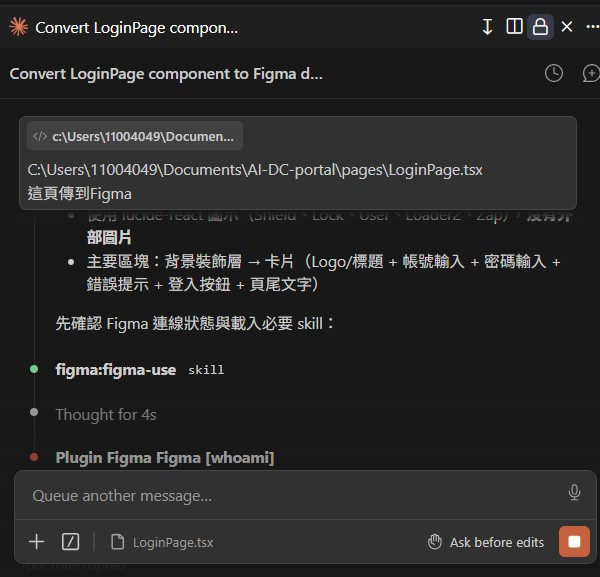
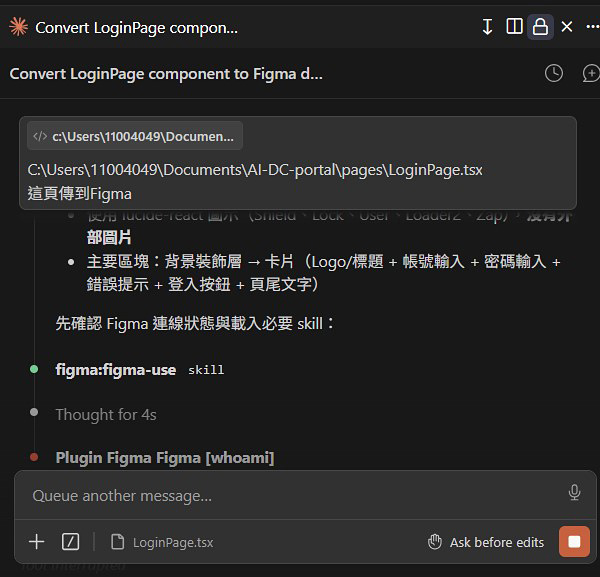
feat(part3): add Skill.md community examples slide + shrink portrait lightbox images
- 新增 Step 3「現成 Skill 直接抓來用」頁：frontend-design (Anthropic 官方) + grill-me (社群)
- MdWindow 支援可選 style prop，兩張卡 flex stretch 等高
- 範例 03 的 portrait 截圖 (chat 面板、login 頁) 在 lightbox 縮小顯示並對齊高度

diff --git a/slides-part3.jsx b/slides-part3.jsx
@@ -76,7 +76,7 @@ const KICKER_STEP2 = '情境二：Design from Code．Step 2｜重構設計規範
 const FIGMA_GALLERY = [
   { src: imgFig01,  stepN: '①', stepLabel: '確認 Figma MCP 連線',          subLabel: 'MCP 連線確認 1/2',     slideLabel: '範例 03｜Figma MCP 開場 + 確認連線' },
   { src: imgFig02,  stepN: '①', stepLabel: '確認 Figma MCP 連線',          subLabel: 'MCP 連線確認 2/2',     slideLabel: '範例 03｜Figma MCP 開場 + 確認連線' },
-  { src: imgFig03,  stepN: '②', stepLabel: '把畫面傳到 Figma',              subLabel: 'a. 下 prompt：「這頁傳到 Figma」', slideLabel: '範例 03｜把畫面傳到 Figma' },
+  { src: imgFig03,  stepN: '②', stepLabel: '把畫面傳到 Figma',              subLabel: 'a. 下 prompt：「這頁<檔案路徑>傳到 Figma」．「瀏覽器畫面的這頁傳到 Figma」．「Login 頁傳到 Figma」', slideLabel: '範例 03｜把畫面傳到 Figma' },
   { src: imgFig04,  stepN: '②', stepLabel: '把畫面傳到 Figma',              subLabel: 'b. 選擇 Figma 目標檔案 1/2',      slideLabel: '範例 03｜把畫面傳到 Figma' },
   { src: imgFig05,  stepN: '②', stepLabel: '把畫面傳到 Figma',              subLabel: 'b. 選擇 Figma 目標檔案 2/2',      slideLabel: '範例 03｜把畫面傳到 Figma' },
   { src: imgFig06,  stepN: '②', stepLabel: '把畫面傳到 Figma',              subLabel: 'c. 選取傳送範圍 1/2',             slideLabel: '範例 03｜把畫面傳到 Figma' },
@@ -132,17 +132,27 @@ function gotoSlideByLabel(labelSuffix) {
  * 取較 portrait 的比例反算可用區域內的共同寬度。 */
 const STEP1_PAIR = [imgFig01, imgFig02]
 
+/* Portrait 比例過高的圖（chat 面板、login 頁）撐滿視窗會壓到上下說明文字，
+ * 單獨縮小顯示，不需要跟其他 landscape 圖共用同高。
+ * SHRINK_PAIR 內兩張會 preload natural size 後 lock 到「較矮那張」的高度，
+ * 確保兩張展開等高（對齊 aspect ratio 較寬的那張）。 */
+const SHRINK_IMAGES = new Set([imgFig03, imgEx03_5])
+const SHRINK_PAIR = [imgFig03, imgEx03_5]
+const SHRINK_MAX_W_RATIO = 0.70
+const SHRINK_MAX_H_RATIO = 0.70
+
 function FigmaGalleryModal() {
   const { open, index, close, setIndex } = useFigmaGallery()
   const current = FIGMA_GALLERY[index]
   const atStart = index === 0
   const atEnd = index === FIGMA_GALLERY.length - 1
   const isStep1 = STEP1_PAIR.includes(current.src)
+  const isShrink = SHRINK_IMAGES.has(current.src)
 
   const [naturalSizes, setNaturalSizes] = useState({})
   useEffect(() => {
     let cancelled = false
-    STEP1_PAIR.forEach((src) => {
+    ;[...STEP1_PAIR, ...SHRINK_PAIR].forEach((src) => {
       if (naturalSizes[src]) return
       const img = new window.Image()
       img.onload = () => {
@@ -163,6 +173,21 @@ function FigmaGalleryModal() {
       const availH = window.innerHeight * (1 - 0.23)
       const minRatio = Math.min(s1.w / s1.h, s2.w / s2.h)
       step1Width = Math.min(availW, availH * minRatio)
+    }
+  }
+
+  /* SHRINK_PAIR 共同高度：兩張展開都鎖到「較矮那張」的渲染高度。
+   * 對每張算 min(maxH, maxW / aspect)，取兩者最小 → 確保兩張等高。 */
+  let shrinkHeight = null
+  if (isShrink && typeof window !== 'undefined') {
+    const sa = naturalSizes[SHRINK_PAIR[0]]
+    const sb = naturalSizes[SHRINK_PAIR[1]]
+    if (sa && sb) {
+      const maxW = window.innerWidth * SHRINK_MAX_W_RATIO
+      const maxH = window.innerHeight * SHRINK_MAX_H_RATIO
+      const heightA = Math.min(maxH, maxW / (sa.w / sa.h))
+      const heightB = Math.min(maxH, maxW / (sb.w / sb.h))
+      shrinkHeight = Math.min(heightA, heightB)
     }
   }
 
@@ -199,7 +224,7 @@ function FigmaGalleryModal() {
         background: 'rgba(9, 9, 9, 0.94)',
         zIndex: 99999,
         display: 'flex', alignItems: 'center', justifyContent: 'center',
-        padding: '15vh 8vw 8vh 8vw',
+        padding: '10vh 4vw 6vh 4vw',
         cursor: 'zoom-out',
       }}
     >
@@ -209,7 +234,11 @@ function FigmaGalleryModal() {
         style={{
           ...(step1Width
             ? { width: step1Width, height: 'auto', maxHeight: '100%' }
-            : { maxWidth: '100%', maxHeight: '100%' }),
+            : shrinkHeight
+            ? { width: 'auto', height: shrinkHeight, maxWidth: '100%' }
+            : isShrink
+            ? { width: 'auto', height: 'auto', maxWidth: '70%', maxHeight: '88%' }
+            : { width: '100%', height: '100%' }),
           objectFit: 'contain',
           borderRadius: 8,
           boxShadow: '0 32px 80px rgba(0, 0, 0, 0.7)',
@@ -699,7 +728,7 @@ const PhotoCard = ({
  * Single surface bg (C.surface2) matches slides_archived.jsx convention;
  * everything else (font, sizes, traffic lights, padding, syntax styling)
  * keeps the original code-editor look. */
-const MdWindow = ({ filename, children, fontSize = TYPE_SCALE.small }) => (
+const MdWindow = ({ filename, children, fontSize = TYPE_SCALE.small, style }) => (
   <div style={{
     background: C.surface2,
     border: '1px solid rgba(255,255,255,0.06)',
@@ -707,6 +736,7 @@ const MdWindow = ({ filename, children, fontSize = TYPE_SCALE.small }) => (
     overflow: 'hidden',
     fontFamily: "'Geist Mono', ui-monospace, monospace",
     boxShadow: '0 24px 60px rgba(0, 0, 0, 0.6)',
+    ...style,
   }}>
     <div style={{
       padding: '14px 24px',
@@ -793,8 +823,7 @@ export const Ch3Divider = ({ n, total }) => (
           opacity: 0.92,
           marginTop: 48,
         }}>
-          透過 Claude Code，將 AI 生成的雜亂介面<br/>
-          重構為具一致性的設計系統
+          
         </div>
       </div>
     </div>
@@ -900,7 +929,7 @@ export const ThreeStepFramework = ({ n, total }) => (
     <motion.div variants={FADE_UP}>
       <SlideHead
         kicker={KICKER}
-        title="三步，讓混亂的 Code 重回可控的設計系統"
+        title="三步驟，從 Code 建立 UI 系統"
         sub="理解 → 規範 → 系統化"
       />
     </motion.div>
@@ -1013,7 +1042,7 @@ export const Step1ClaudeMd = ({ n, total }) => (
     <motion.div
       variants={STAGGER_INNER}
       style={{
-        marginTop: 40,
+        marginTop: 20,
         display: 'grid',
         gridTemplateColumns: '1.1fr 1fr',
         gap: 40,
@@ -1092,6 +1121,22 @@ export const Step1ClaudeMd = ({ n, total }) => (
           它會自動讀過整個專案，產出一份 <span style={{ color: C.ink, fontWeight: 500 }}>CLAUDE.md</span>。
         </div>
       </motion.div>
+    </motion.div>
+
+    {/* 全寬腳註 — .md 格式定義 */}
+    <motion.div
+      variants={FADE_UP}
+      style={{
+        marginTop: 36,
+        paddingTop: 16,
+        borderTop: `1px solid ${C.hairlineSoft}`,
+        fontSize: TYPE_SCALE.small,
+        color: C.inkMuted,
+        lineHeight: 1.5,
+      }}
+    >
+      <span style={{ color: C.ink, fontFamily: "'Geist Mono', ui-monospace, monospace" }}>※ .md</span>
+      （Markdown）是一種 AI 容易解析內容結構的純文字文件格式
     </motion.div>
 
     <SlideNumber n={n} total={total} />
@@ -1714,7 +1759,25 @@ export const Example03Transfer = ({ n, total }) => {
         }}
       >
         {[
-          { n: 'a', label: 'a. 下 prompt：「這頁傳到 Figma」', imgs: [imgFig03] },
+          { n: 'a', label: (
+            <>
+              <div>a. 下 prompt：</div>
+              <div style={{ marginTop: 12, display: 'flex', flexDirection: 'column', gap: 8 }}>
+                {[
+                  '「這頁<檔案路徑>傳到 Figma」',
+                  '「瀏覽器畫面的這頁傳到 Figma」',
+                  '「Login 頁傳到 Figma」',
+                ].map((p, i) => (
+                  <div key={i} style={{
+                    padding: '10px 14px',
+                    background: C.canvas,
+                    borderRadius: ROUNDED.sm,
+                    fontSize: TYPE_SCALE.small, color: C.ink, fontWeight: 500,
+                  }}>{p}</div>
+                ))}
+              </div>
+            </>
+          ), imgs: [imgFig03] },
           { n: 'b', label: 'b. 選擇 Figma 目標檔案',           imgs: [imgFig04, imgFig05] },
           { n: 'c', label: 'c. 選取傳送範圍',                  imgs: [imgFig06, imgFig07] },
         ].map((step, i) => (
@@ -2019,7 +2082,103 @@ export const Step3SkillPart2 = ({ n, total }) => (
 )
 
 /* ============================================================
-   Slide 14 — CLAUDE.md vs Skill 對照
+   Slide 14 — Step 3 · Skill.md 現成範例（社群 / 官方）
+   ============================================================ */
+export const Step3SkillPart3 = ({ n, total }) => (
+  <Animated bg={C.surface1}>
+    <motion.div variants={FADE_UP}>
+      <SlideHead
+        kicker={KICKER}
+        title="Step 3｜建立設計 SOP：Skill.md"
+        sub="現成 Skill 直接抓來用"
+      />
+    </motion.div>
+
+    {/* 兩張 SKILL.md 範例：左 frontend-design（Anthropic 官方）、右 grill-me（社群） */}
+    <motion.div variants={FADE_UP} style={{ marginTop: 32 }}>
+      <div style={{
+        display: 'grid',
+        gridTemplateColumns: '1fr 1fr',
+        gap: 24,
+        alignItems: 'stretch',
+      }}>
+        {/* Card A — frontend-design */}
+        <div style={{ display: 'flex', flexDirection: 'column' }}>
+          <div style={{ fontSize: TYPE_SCALE.small, color: C.inkMuted, letterSpacing: '0.08em', textTransform: 'uppercase', marginBottom: 12 }}>
+            Anthropic 官方 Skill．frontend-design
+          </div>
+          <MdWindow filename="SKILL.md" fontSize={TYPE_SCALE.tiny} style={{ flex: 1 }}>
+            <div style={{ display: 'flex', flexDirection: 'column', gap: 14 }}>
+              <div>
+                <span style={{ color: 'rgba(255,255,255,0.45)' }}>---</span><br/>
+                <span style={{ color: C.gradientOrange }}>name</span>
+                <span style={{ color: 'rgba(255,255,255,0.45)' }}>: </span>
+                <span style={{ color: C.ink }}>frontend-design</span><br/>
+                <span style={{ color: C.gradientOrange }}>description</span>
+                <span style={{ color: 'rgba(255,255,255,0.45)' }}>: </span>
+                <span style={{ color: C.ink }}>產出有設計感的 UI，避免 AI 生成的通用模板</span><br/>
+                <span style={{ color: 'rgba(255,255,255,0.45)' }}>---</span>
+              </div>
+              <div style={{ display: 'flex', flexDirection: 'column', gap: 6 }}>
+                <MdBullet>以明確風格為核心，設計要有意圖 (intentional)</MdBullet>
+                <MdBullet>不用常見 AI 套路（字體 / 漸層 / 視覺 clichéd）</MdBullet>
+                <MdBullet>統一配色，維持整體一致性</MdBullet>
+                <MdBullet>優先考慮整體感，而不是局部好看</MdBullet>
+                <MdBullet>每個設計選擇都需要有理由</MdBullet>
+              </div>
+            </div>
+          </MdWindow>
+        </div>
+
+        {/* Card B — grill-me */}
+        <div style={{ display: 'flex', flexDirection: 'column' }}>
+          <div style={{ fontSize: TYPE_SCALE.small, color: C.inkMuted, letterSpacing: '0.08em', textTransform: 'uppercase', marginBottom: 12 }}>
+            社群公開 Skill．grill-me
+          </div>
+          <MdWindow filename="SKILL.md" fontSize={TYPE_SCALE.tiny} style={{ flex: 1 }}>
+            <div style={{ display: 'flex', flexDirection: 'column', gap: 14 }}>
+              <div>
+                <span style={{ color: 'rgba(255,255,255,0.45)' }}>---</span><br/>
+                <span style={{ color: C.gradientOrange }}>name</span>
+                <span style={{ color: 'rgba(255,255,255,0.45)' }}>: </span>
+                <span style={{ color: C.ink }}>grill-me</span><br/>
+                <span style={{ color: C.gradientOrange }}>description</span>
+                <span style={{ color: 'rgba(255,255,255,0.45)' }}>: </span>
+                <span style={{ color: C.ink }}>強制檢視每個設計決策，直到邏輯完整</span><br/>
+                <span style={{ color: 'rgba(255,255,255,0.45)' }}>---</span>
+              </div>
+              <div style={{ display: 'flex', flexDirection: 'column', gap: 6 }}>
+                <MdBullet>逐步拆解 decision tree，每步都要合理</MdBullet>
+                <MdBullet>不接受直覺答案，必須說明原因</MdBullet>
+                <MdBullet>優先從 code / 現有資訊找答案</MdBullet>
+                <MdBullet>用於壓力測試設計與決策品質</MdBullet>
+              </div>
+            </div>
+          </MdWindow>
+        </div>
+      </div>
+    </motion.div>
+
+    {/* Punchline */}
+    <motion.div variants={FADE_UP} style={{
+      marginTop: 48,
+      fontSize: TYPE_SCALE.subtitle,
+      color: C.ink,
+      fontWeight: 500,
+      letterSpacing: TRACK.subtitle,
+      lineHeight: 1.35,
+      borderLeft: `4px solid ${C.gradientOrange}`,
+      paddingLeft: 20,
+    }}>
+      找到喜歡的 skill — 放進 <span style={{ fontFamily: "'Geist Mono', ui-monospace, monospace", color: C.gradientOrange }}>.claude/skills/</span> 就能用。
+    </motion.div>
+
+    <SlideNumber n={n} total={total} />
+  </Animated>
+)
+
+/* ============================================================
+   Slide 15 — CLAUDE.md vs Skill 對照
    ============================================================ */
 export const SkillComparison = ({ n, total }) => (
   <Animated bg={C.canvas}>
@@ -2232,6 +2391,7 @@ export default [
   { label: '範例 03｜Claude 反向改 Code',           render: (p) => <Example03Result {...p} /> },
   { label: 'Step 3｜Skill.md（定義 + 範本）',       render: (p) => <Step3SkillPart1 {...p} /> },
   { label: 'Step 3｜Skill.md（使用與放置）',         render: (p) => <Step3SkillPart2 {...p} /> },
+  { label: 'Step 3｜Skill.md（現成範例）',           render: (p) => <Step3SkillPart3 {...p} /> },
   { label: 'CLAUDE.md vs Skill.md',                render: (p) => <SkillComparison {...p} /> },
   { label: '防呆｜存檔與回復',                       render: (p) => <Foolproof {...p} /> },
 ]
